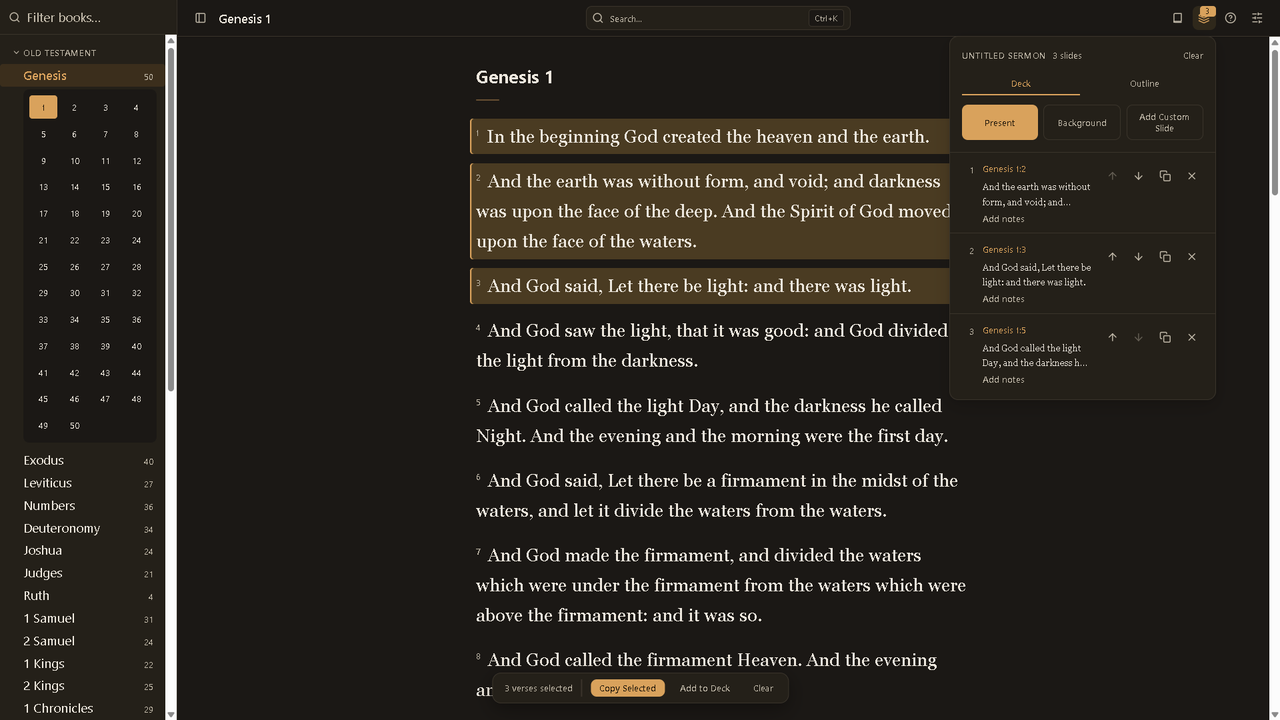
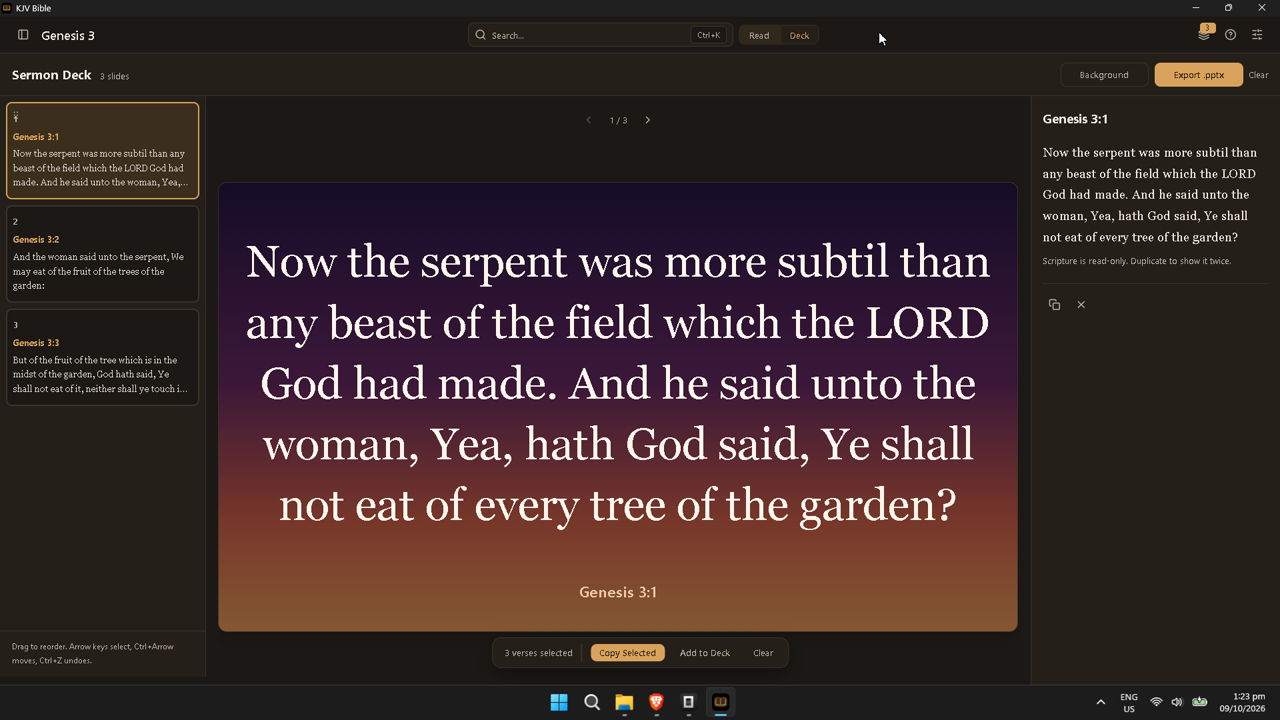
Refresh README screenshots for the simplified app
- Retake reading/search/selection/deck/help at 1280x720 against
  the current UI (Deck studio tab, no library, current shortcuts)
- Drop library.png and stage.png with their features
- README: assembly-only feature list, single local deck

diff --git a/README.md b/README.md
@@ -8,10 +8,10 @@ Go to [**Releases**](https://github.com/DanielPomboDev/kjv-bible-app/releases), 
 
 ## Screenshots
 
-![Reading Genesis 1 with the book list and chapter grid](screenshots/reading.png)
+![Reading Genesis 3 with the book list and chapter grid](screenshots/reading.png)
 ![Searching for "faith" across the whole Bible](screenshots/search.png)
 ![Selecting three verses with Copy, Add to Deck, and Clear actions](screenshots/selection.png)
-![The sermon deck panel with slides and reorder controls](screenshots/deck.png)
+![The Deck studio with filmstrip, live preview, and slide details](screenshots/deck.png)
 ![The shortcuts help dialog](screenshots/help.png)
 
 ## What you can do
